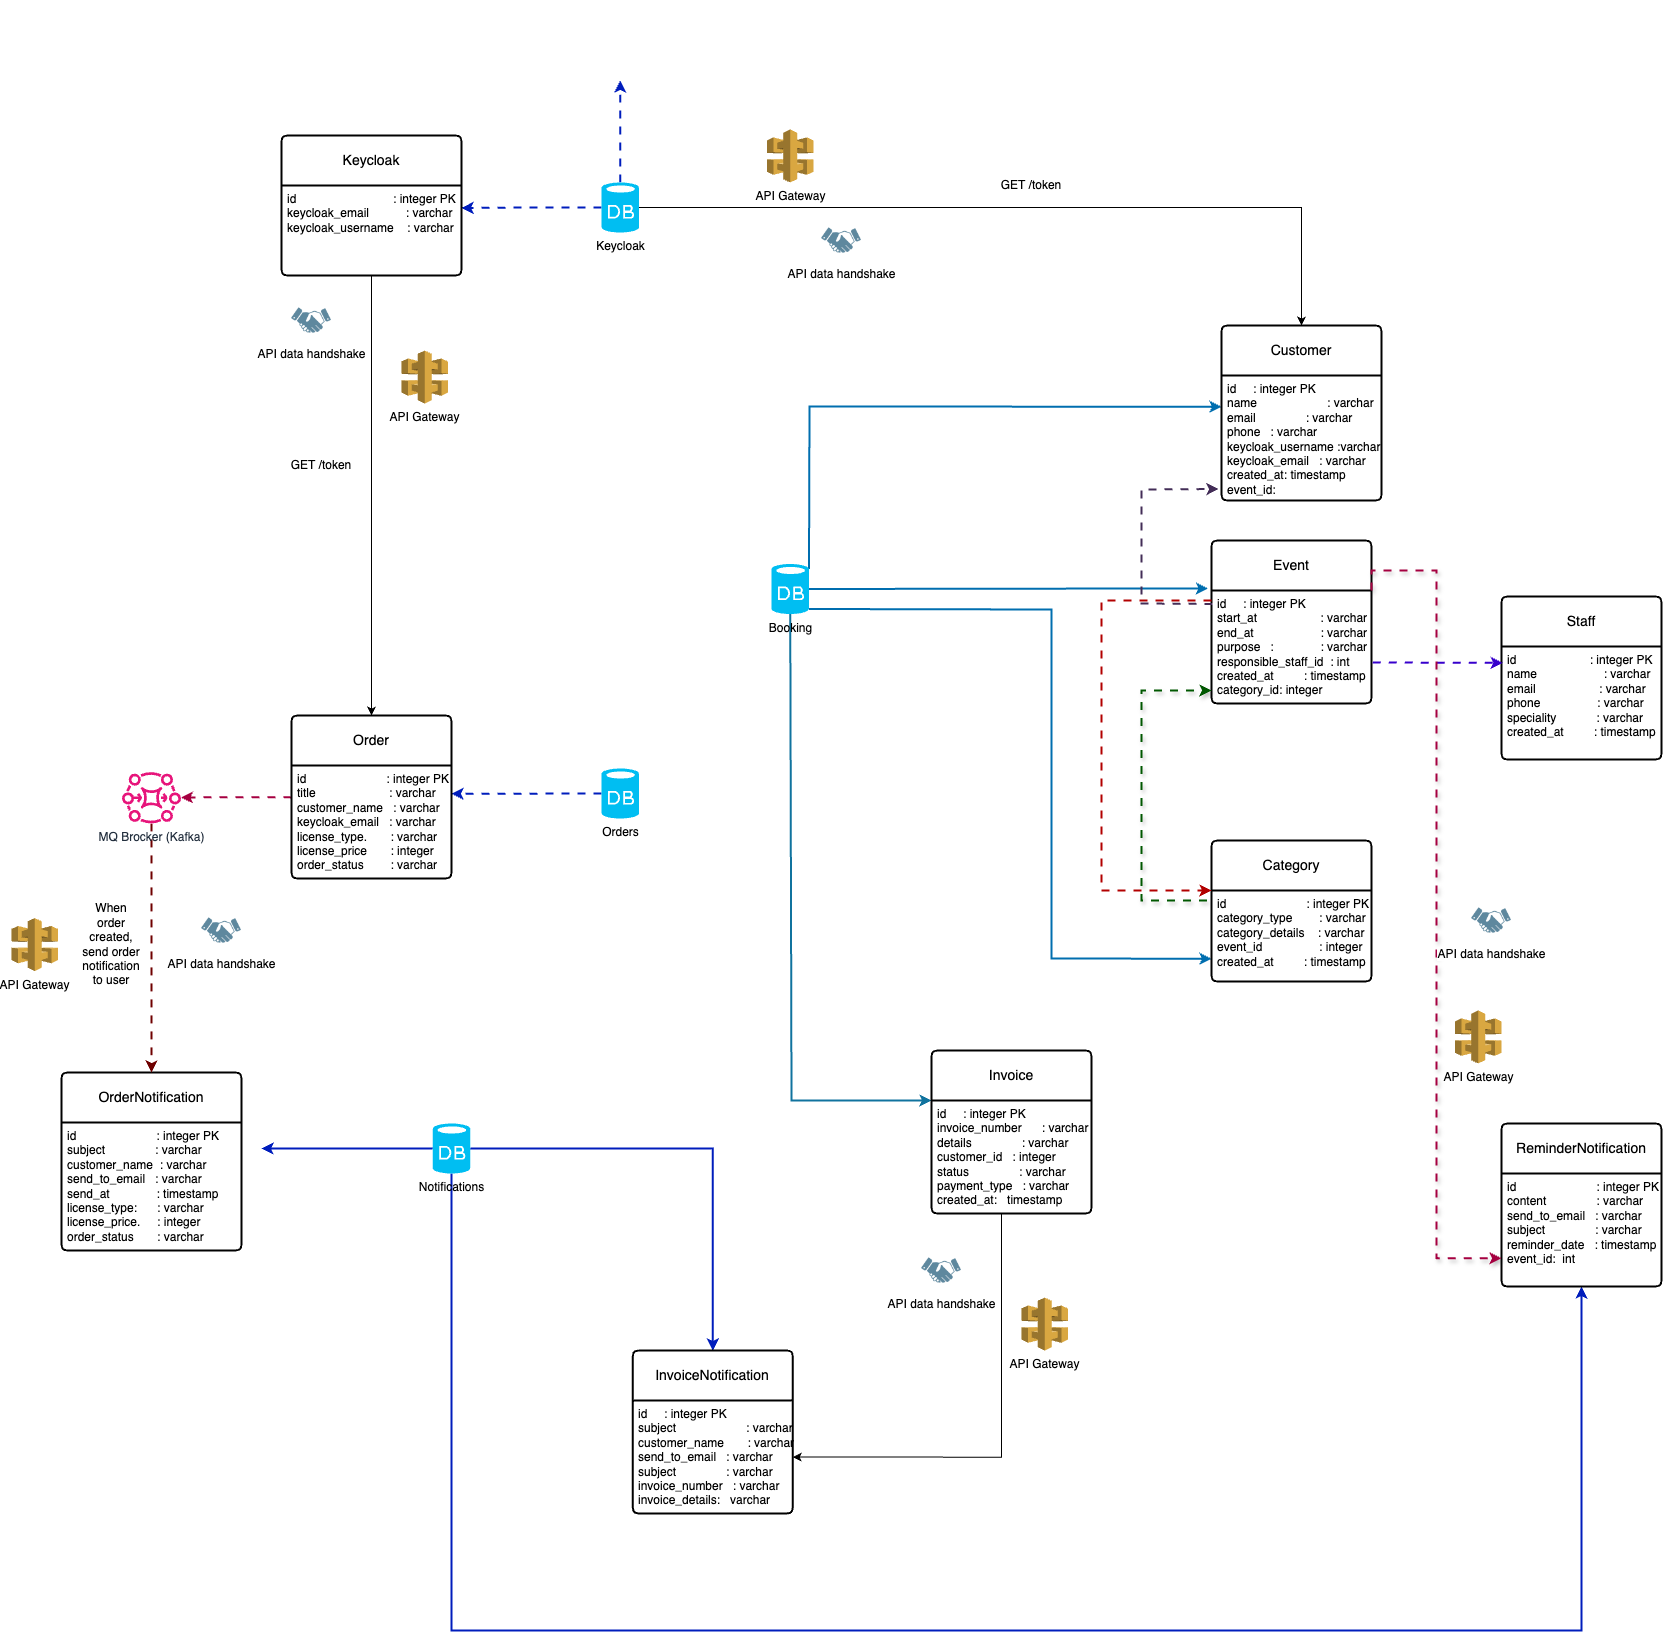
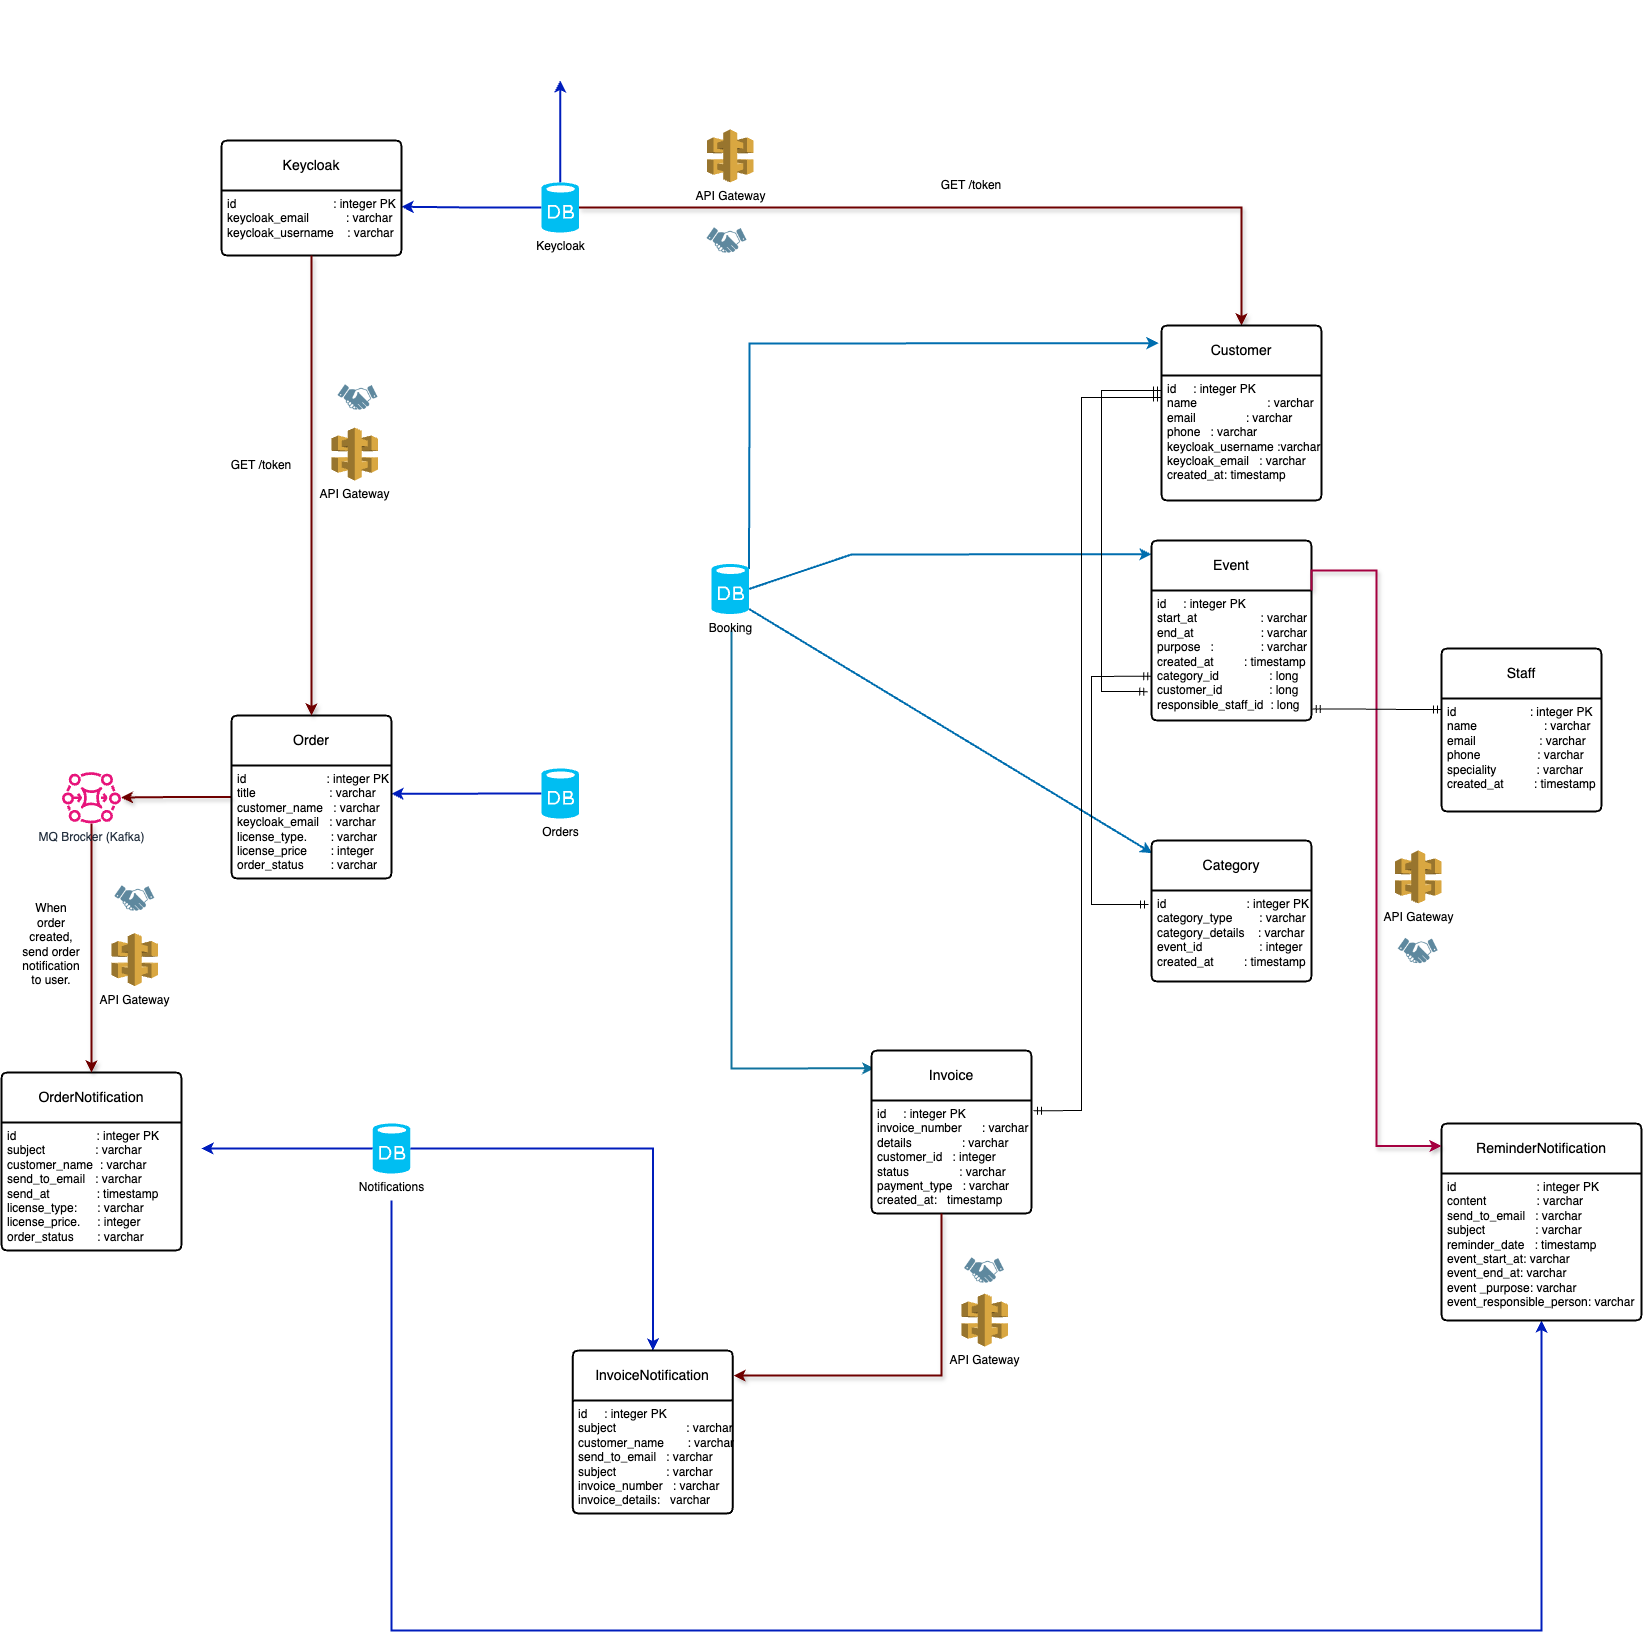
fix: add getAllcustomers endpoint, implement paginations in bookings (#2)
* fix: add getAllcustomers endpoint, implement paginations in bookings

* fix: update dataflow diagram

* fix: add full controllers endpoints to CustomerController

diff --git a/booking/src/main/java/com/cloudingenieur/booking/controllers/CustomerController.java b/booking/src/main/java/com/cloudingenieur/booking/controllers/CustomerController.java
@@ -1,22 +1,102 @@
 package com.cloudingenieur.booking.controllers;
 
+import com.cloudingenieur.booking.entities.Customer;
+import com.cloudingenieur.booking.repositories.CustomerRepository;
+import com.cloudingenieur.booking.services.CustomerServices;
+import com.cloudingenieur.booking.util.JsonConverter;
+import com.fasterxml.jackson.databind.node.ObjectNode;
+import org.springframework.beans.factory.annotation.Autowired;
+import org.springframework.http.HttpStatus;
+import org.springframework.http.ResponseEntity;
 import org.springframework.security.access.prepost.PreAuthorize;
 import org.springframework.security.core.Authentication;
 import org.springframework.security.core.context.SecurityContext;
 import org.springframework.security.core.context.SecurityContextHolder;
-import org.springframework.web.bind.annotation.GetMapping;
-import org.springframework.web.bind.annotation.RequestMapping;
-import org.springframework.web.bind.annotation.RestController;
+import org.springframework.web.bind.annotation.*;
+import jakarta.persistence.Tuple;
+
+import java.io.IOException;
+import java.util.List;
+
 
 @RestController
+@CrossOrigin(origins = "*")
 @RequestMapping("/bookings/v1")
 public class CustomerController {
 
+
+    @Autowired
+    private CustomerRepository customerRepository;
+
+    @Autowired
+    private CustomerServices customerServices;
+
+    @Autowired
+    private JsonConverter jsonConverter;
+
     @PreAuthorize("hasAuthority('SCOPE_TEST')")
-    @GetMapping("/customers")
-    public String getAllCustomers() {
+    @GetMapping("/scopes")
+    public String getScopes() {
         SecurityContext context = SecurityContextHolder.getContext();
         Authentication authentication = context.getAuthentication();
         return "Scopes: " + authentication.getAuthorities();
+    }
+
+
+    @PreAuthorize("hasAuthority('SCOPE_TEST')")
+    @GetMapping("/customers")
+    public ResponseEntity<?> getAllCustomers(@RequestParam(defaultValue = "0") int page,
+                                             @RequestParam(defaultValue = "10") int size) {
+        var x = customerServices.getCustomers(0, 1);
+        System.out.println(x);
+
+        return ResponseEntity.status(HttpStatus.OK).body(customerServices.getCustomers(page, size));
+
+    }
+
+
+    @CrossOrigin(origins = "*")
+    @PostMapping(value = "/customer/new", produces = "application/json", consumes = "application/json")
+    @PreAuthorize("hasAuthority('SCOPE_TEST')")
+    public ResponseEntity<?> createCustomer(@RequestBody Customer customer) throws IOException {
+        var id = customerRepository.findById(customer.getId());
+
+        // TODO: fix dublicated user
+        /*if(id.isEmpty()) {
+            return ResponseEntity.status(HttpStatus.NOT_FOUND).body("Customer is already found");
+        } */
+        customerServices.saveCustomer(customer);
+        return ResponseEntity.status(HttpStatus.CREATED).body("Customer created");
+    }
+
+
+    @DeleteMapping(value = "/customer/{id}")
+    @PreAuthorize("hasAuthority('SCOPE_TEST')")
+    public void deleteCustomer(@PathVariable final Long id) {
+        //Customer customerById = customerRepository.findById(id)
+        customerRepository.deleteById(id);
+    }
+
+    @PutMapping(value = "/customer/{id}")
+    @PreAuthorize("hasAuthority('SCOPE_TEST')")
+    public ResponseEntity<?> updateCustomer(@PathVariable final Long id, @RequestBody Customer customers) {
+        return customerRepository.findById(id)
+                .map(client -> {
+                    client.setName(customers.getName());
+                    client.setAddress(customers.getAddress());
+                    client.setEmail(customers.getEmail());
+                    client.setPhone(customers.getPhone());
+                    client.setCreated_date(customers.getCreated_date());
+
+                     customerRepository.save(client);
+                    return ResponseEntity.status(HttpStatus.CREATED).body("Customer Updated" + client);
+                })
+                .orElseGet(() -> {
+                    customers.setId(id);
+                    customerRepository.save(customers);
+
+                    return  ResponseEntity.status(HttpStatus.CREATED).body("New Customer Created!");
+
+                });
     }
 }

diff --git a/booking/src/main/java/com/cloudingenieur/booking/util/JsonConverter.java b/booking/src/main/java/com/cloudingenieur/booking/util/JsonConverter.java
@@ -1,0 +1,30 @@
+package com.cloudingenieur.booking.util;
+
+import com.fasterxml.jackson.databind.ObjectMapper;
+import com.fasterxml.jackson.databind.node.ObjectNode;
+import org.springframework.context.annotation.Configuration;
+
+import jakarta.persistence.Tuple;
+import jakarta.persistence.TupleElement;
+import java.util.ArrayList;
+import java.util.List;
+
+@Configuration
+public class JsonConverter {
+
+    public List<ObjectNode> _toJson(List<Tuple> results) {
+        List<ObjectNode> json = new ArrayList<>();
+        ObjectMapper mapper = new ObjectMapper();
+
+        for (Tuple t : results) {
+            List<TupleElement<?>> cols = t.getElements();
+            ObjectNode node = mapper.createObjectNode();
+
+            for (TupleElement col : cols) {
+                node.put(col.getAlias(), t.get(col.getAlias()).toString());
+            }
+            json.add(node);
+        }
+        return json;
+    }
+}

diff --git a/booking/src/main/java/com/cloudingenieur/booking/services/CustomerServices.java b/booking/src/main/java/com/cloudingenieur/booking/services/CustomerServices.java
@@ -1,0 +1,26 @@
+package com.cloudingenieur.booking.services;
+
+import com.cloudingenieur.booking.entities.Customer;
+import com.cloudingenieur.booking.repositories.CustomerRepository;
+import org.springframework.data.domain.Page;
+import org.springframework.beans.factory.annotation.Autowired;
+import org.springframework.data.domain.PageRequest;
+import org.springframework.data.domain.Pageable;
+import org.springframework.stereotype.Service;
+
+@Service
+public class CustomerServices {
+
+    @Autowired
+    private CustomerRepository customerRepository;
+
+    public Page<Customer> getCustomers(int page, int size) {
+        Pageable pageable = PageRequest.of(page, size);
+
+        return customerRepository.findAll(pageable);
+    }
+
+    public void saveCustomer(Customer customer) {
+        customerRepository.save(customer);
+    }
+}

diff --git a/booking/src/main/java/com/cloudingenieur/booking/entities/Customer.java b/booking/src/main/java/com/cloudingenieur/booking/entities/Customer.java
@@ -1,0 +1,36 @@
+package com.cloudingenieur.booking.entities;
+
+import jakarta.persistence.*;
+import lombok.CustomLog;
+import lombok.Data;
+import lombok.NoArgsConstructor;
+
+import java.util.Date;
+
+@Entity
+@Data
+@Table(name = "customer")
+@NoArgsConstructor
+public class Customer {
+    @Id
+    @GeneratedValue(strategy = GenerationType.IDENTITY)
+    @Column(name = "id")
+    private Long id;
+
+    @Column(name = "name")
+    private String name;
+
+    @Column(name = "email")
+    private String email;
+
+    @Column(name = "phone")
+    private String phone;
+
+    @Column(name = "address")
+    private String address;
+
+    @Temporal(TemporalType.DATE)
+    @Column(name = "createdat")
+    private Date created_date;
+
+}

diff --git a/booking/src/main/java/com/cloudingenieur/booking/repositories/CustomerRepository.java b/booking/src/main/java/com/cloudingenieur/booking/repositories/CustomerRepository.java
@@ -1,0 +1,18 @@
+package com.cloudingenieur.booking.repositories;
+
+import com.cloudingenieur.booking.entities.Customer;
+import jakarta.persistence.Tuple;
+import jakarta.transaction.Transactional;
+import org.springframework.data.jpa.repository.JpaRepository;
+import org.springframework.data.jpa.repository.Query;
+import org.springframework.stereotype.Repository;
+
+import java.util.List;
+
+@Repository
+@Transactional
+public interface CustomerRepository extends JpaRepository<Customer, Long> {
+
+    @Query(value = "SELECT * FROM `customerDB`.customer", nativeQuery = true)
+    List<Tuple> findAllCustomers();
+}
